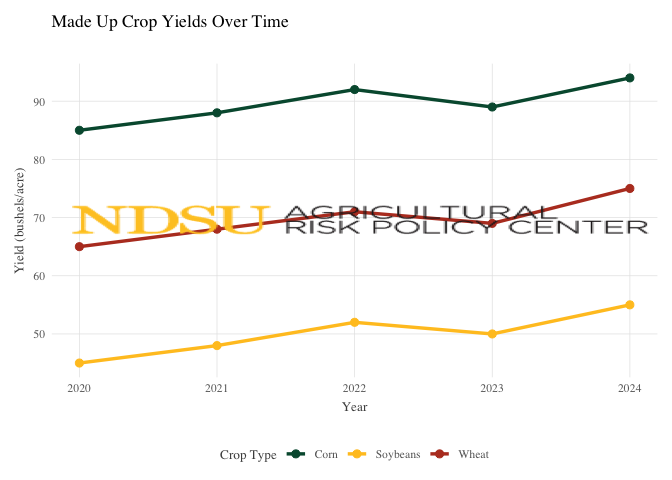
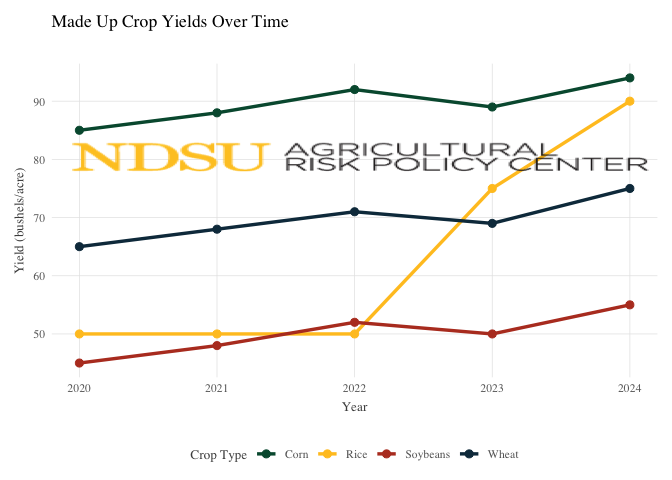
complete working theme

diff --git a/README.md b/README.md
@@ -6,10 +6,10 @@
 <!-- badges: start -->
 <!-- badges: end -->
 
-The `arpctheme` package provides a comprehensive ggplot2 theme and color
-system designed specifically for ARPC (Agricultural Research and Policy
-Center) data visualizations. It ensures consistent, professional styling
-that incorporates NDSU brand colors and typography.
+The `arpctheme` package provides a ggplot2 theme designed specifically
+for ARPC data visualizations. The package also contains an export
+function that allows users to consistently export figures in a
+standardized formatting.
 
 ## Installation
 
@@ -68,7 +68,9 @@ specific location using coordinates, where (0,0) is the bottom left
 corner of the plot and (1,1) is the top right corner. Setting
 coordinates outside the 0 to 1 range is also possible and will place the
 logo into the margins of the plot. The size of the logo can be adjusted
-using the `size` argument, which defaults to 0.3.
+using the `size` argument, which defaults to 0.3. The `alpha` argument
+can be used to adjust the transparency of the logo to create a watermark
+type effect.
 
 ``` r
 
@@ -101,55 +103,25 @@ ggplot(mtcars, aes(x = wt, y = mpg, color = factor(cyl))) +
 
 <img src="man/figures/README-example-logo2-1.png" width="100%" />
 
-## NDSU Color System
-
-The package automatically applies NDSU brand colors in priority order:
-
-1.  **NDSU Green** (#00583d) - Primary brand color
-2.  **NDSU Yellow** (#FFC425) - Secondary brand color  
-3.  **Rust** (#B83E27) - Third priority
-4.  **Night** (#0F374B) - Fourth priority
-5.  Additional colors: Teal, Sage, Dark Green, etc.
-
-### Access Individual Colors
-
-``` r
-# Get all NDSU colors
-ndsu_colors()
-#>        green       yellow   dark_green   lime_green         teal lemon_yellow 
-#>    "#00583d"    "#FFC425"    "#003524"    "#8ED73B"    "#51ABD0"    "#F4F287" 
-#>         sage    pale_sage         rust  morning_sky        night 
-#>    "#8ABD78"    "#D7E8C8"    "#B83E27"     "#90DF7"    "#0F374B"
-
-# Get specific colors
-ndsu_colors("green")
-#>     green 
-#> "#00583d"
-ndsu_colors(c("green", "yellow", "rust"))
-#>     green    yellow      rust 
-#> "#00583d" "#FFC425" "#B83E27"
-```
-
-## Examples
-
-### Time Series Plot
+Example: Use the logo as a watermark in the background of the plot.
 
 ``` r
 # some made up data
 crop_data <- data.frame(
-  year = rep(2020:2024, 3),
+  year = rep(2020:2024, 4),
   yield = c(85, 88, 92, 89, 94,   # Corn
            45, 48, 52, 50, 55,    # Soybeans  
-           65, 68, 71, 69, 75),   # Wheat
+           65, 68, 71, 69, 75, # Wheat
+           50,50,50,75,90),   # Rice
       
-  crop = rep(c("Corn", "Soybeans", "Wheat"), each = 5)
+  crop = rep(c("Corn", "Soybeans", "Wheat","Rice"), each = 5)
 )
 
 ggplot(crop_data, aes(x = year, y = yield, color = crop)) +
   geom_line(linewidth = 1.2) +
   geom_point(size = 2.5) +
   theme_arpc() +
-  logo(position = c(.5,.5), size = 1, alpha = .3) +
+  logo(position = c(.5,.7), size = 1, alpha = .2) +
   labs(
     title = "Made Up Crop Yields Over Time",
     subtitle = "",
@@ -161,69 +133,34 @@ ggplot(crop_data, aes(x = year, y = yield, color = crop)) +
 
 <img src="man/figures/README-timeseries-example-1.png" width="100%" />
 
-### Bar Chart
+## NDSU Color Pallete
+
+The package automatically applies colors from the [NDSU brand
+guidlines](https://www.ndsu.edu/sites/default/files/fileadmin/www.ur.ndsu.edu/NDSU-Brand-Guidelines-040125.pdf):
+
+1.  **NDSU Green** (#00583d) - Primary brand color
+2.  **NDSU Yellow** (#FFC425) - Secondary brand color  
+3.  **Rust** (#B83E27) - Third priority
+4.  **Night** (#0F374B) - Fourth priority
+5.  Additional colors: Teal, Sage, Dark Green, etc.
+
+### Access Individual Colors
 
 ``` r
-ggplot(mtcars, aes(x = factor(cyl), fill = factor(cyl))) +
-  geom_bar() +
-  theme_arpc() +
-  logo(position = "bottom-right", size = 0.5) +
-  labs(
-    title = "Distribution by Cylinder Count",
-    x = "Cylinders",
-    y = "Count",
-    fill = "Cylinders"
-  )
+# return the hex codes for all ndsu colors
+ndsu_colors()
+#>        green       yellow   dark_green   lime_green         teal lemon_yellow 
+#>    "#00583d"    "#FFC425"    "#003524"    "#8ED73B"    "#51ABD0"    "#F4F287" 
+#>         sage    pale_sage         rust  morning_sky        night 
+#>    "#8ABD78"    "#D7E8C8"    "#B83E27"     "#90DF7"    "#0F374B"
+
+# get the hex code for just ndsu green
+ndsu_colors("green")
+#>     green 
+#> "#00583d"
+
+# get the hex codes for ndsu green and ndsu yellow
+ndsu_colors(c("green", "yellow"))
+#>     green    yellow 
+#> "#00583d" "#FFC425"
 ```
-
-<img src="man/figures/README-barchart-example-1.png" width="100%" />
-
-## Customization
-
-### Override Colors
-
-Users can override the automatic NDSU colors when needed:
-
-``` r
-ggplot(data, aes(x, y, color = group)) +
-  geom_point() +
-  theme_arpc() +
-  scale_color_manual(values = c("red", "blue", "green"))  # Overrides NDSU colors
-```
-
-### Font Customization
-
-``` r
-# Use different font family
-ggplot(data, aes(x, y)) +
-  geom_point() +
-  theme_arpc(base_family = "Arial")
-
-# Adjust font size
-ggplot(data, aes(x, y)) +
-  geom_point() +
-  theme_arpc(base_size = 16)
-```
-
-## Best Practices
-
-1.  **Consistent Usage**: Always use `theme_arpc()` for ARPC
-    publications to ensure brand consistency
-2.  **Logo Placement**: Choose logo positions that don’t interfere with
-    data visualization (automatic clipping ensures logos appear
-    correctly)
-3.  **Color Priority**: Let the automatic color system handle color
-    assignment for consistency
-4.  **Export Standards**: Use `export_arpc()` with consistent dimensions
-    for publication-ready figures
-5.  **Font Considerations**: The default CMR font works well for
-    academic publications
-
-## Contributing
-
-This package is designed specifically for ARPC research visualization
-needs. For issues or suggestions, please contact the package maintainer.
-
-## License
-
-MIT License - see LICENSE file for details.
